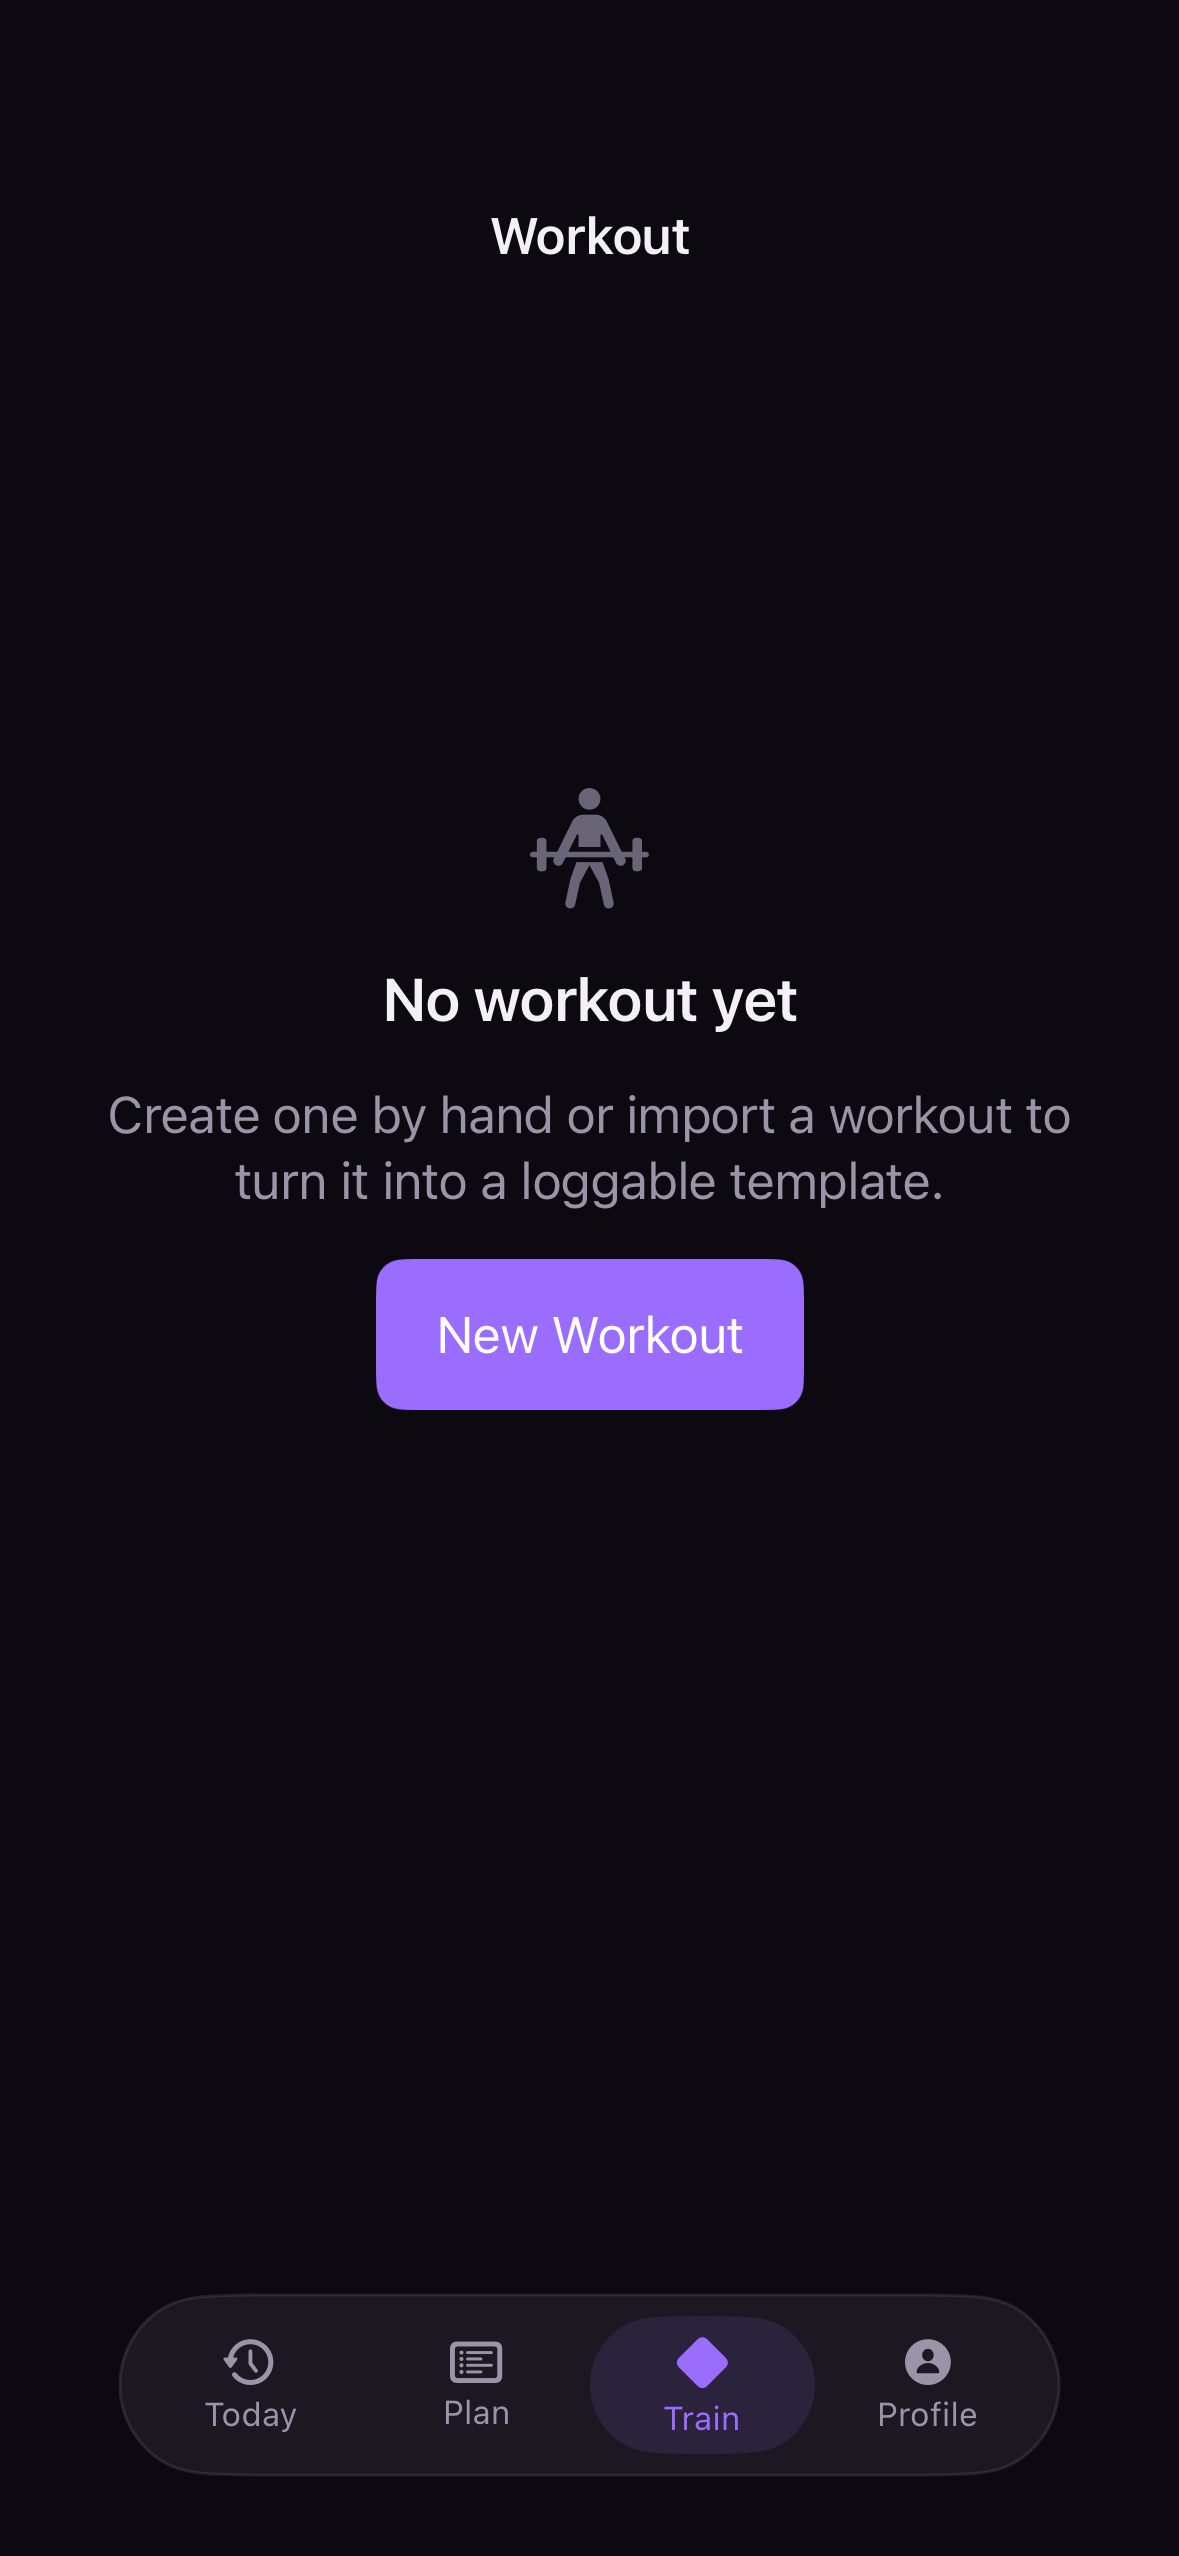
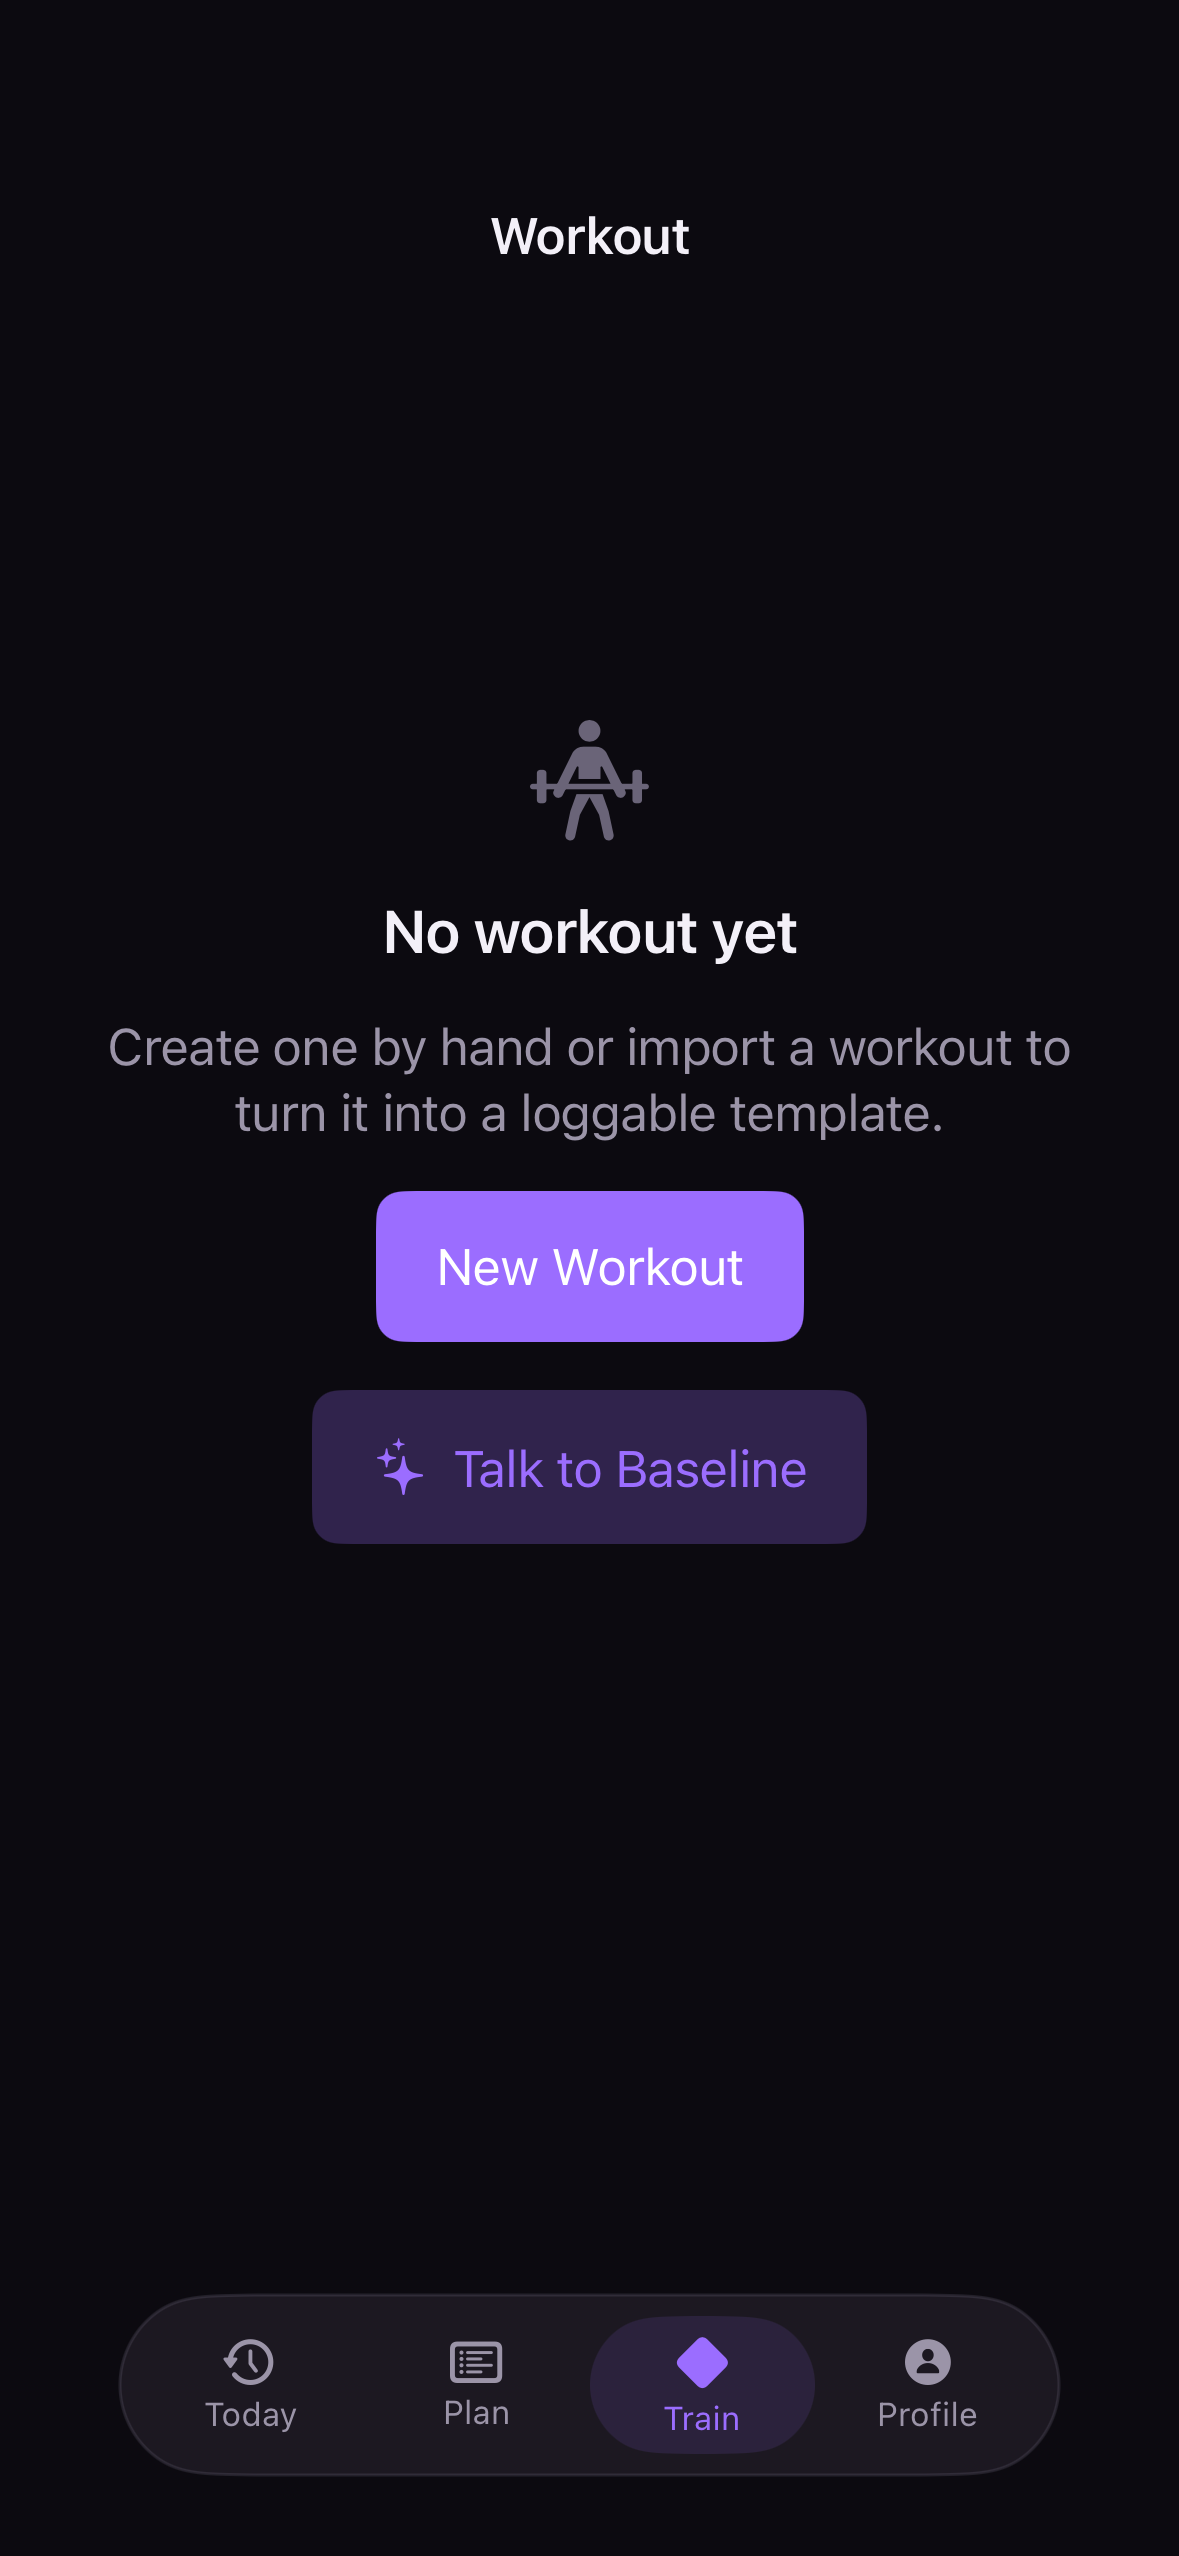
no-mistakes(review): add Train empty-state chat entry with shell coverage

Changed region(s): [[0.0916, 0.2782, 0.916, 0.6182]]

diff --git a/BaselineTests/MainTabShellRenderTests.swift b/BaselineTests/MainTabShellRenderTests.swift
@@ -25,7 +25,24 @@ struct MainTabShellRenderTests {
             let chat = try #require(screen.element(labelled: "Ask about your week"))
             #expect(chat.accessibilityFrame.maxY <= screen.floatingBarTop)
         }
+        if tab == .train {
+            let chat = try #require(screen.element(labelled: "Talk to Baseline"))
+            #expect(chat.accessibilityFrame.maxY <= screen.floatingBarTop)
+        }
         try screen.capture("shell-\(tab.title.lowercased())")
+    }
+
+    @Test func leavingTrainUnmountsTheWorkoutSurface() async throws {
+        let screen = try MainTabShellScreen(tab: .train)
+        defer { screen.tearDown() }
+        try await screen.settle()
+
+        #expect(screen.element(labelled: "No workout yet") != nil)
+        #expect(screen.activate(labelled: "Today"))
+        try await screen.settle()
+
+        #expect(screen.element(labelled: "No workout yet") == nil)
+        #expect(screen.element(labelled: "Talk to Baseline") == nil)
     }
 
     @Test func theFloatingBarDrivesRealTabSelection() async throws {

diff --git a/Baseline/Features/Workout/WorkoutView.swift b/Baseline/Features/Workout/WorkoutView.swift
@@ -528,6 +528,14 @@ struct WorkoutView: View {
             Button("New Workout") { store.create(title: "Today's workout", goal: nil) }
                 .buttonStyle(.borderedProminent)
                 .controlSize(.large)
+            Button {
+                showChat = true
+            } label: {
+                Label("Talk to Baseline", systemImage: "sparkles")
+            }
+            .buttonStyle(.bordered)
+            .controlSize(.large)
+            .tint(BaselineColor.accent)
             Spacer()
             Spacer()
         }
